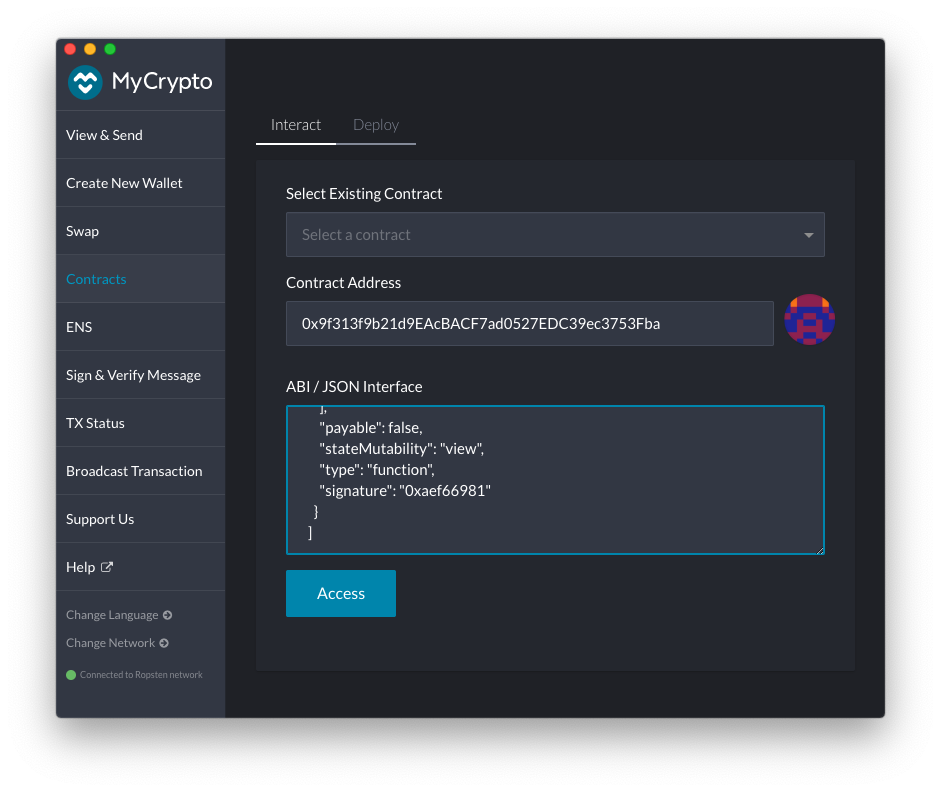
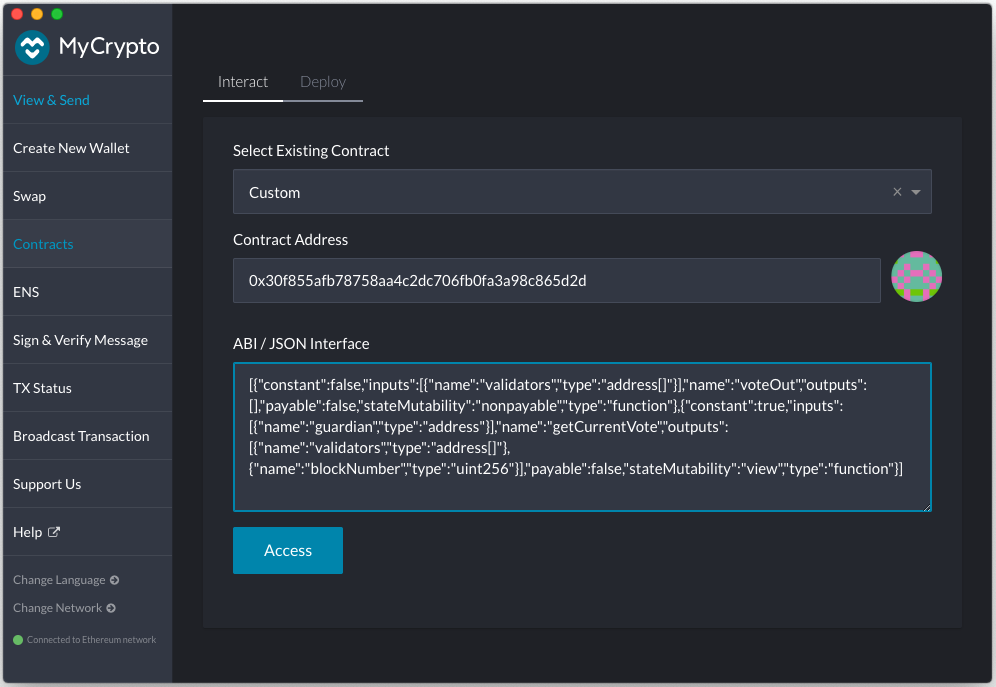
Ethereum mainnet + text fixes

diff --git a/voting/ethereum/instructions/vote_out.md b/voting/ethereum/instructions/vote_out.md
@@ -18,50 +18,71 @@ Any wallet software may be used, and the choice of MyCrypto here is for illustra
 
 ### Voting pre-requirements
  - MyCrypto desktop app (or another equivalent wallet software)
- - A wallet setup with your Guardians's Ethereum account keys with a positive Ether balance for gas payment
- - ABI and contract address available on Etherscan. For example, on Ropsten testnet the contract may be found [here][1] 
+ - A wallet setup with your Guardians's Ethereum account keys with a positive Ether balance for gas payment.
+ - Guardian registration of with your Ethereum account. See: [Guardian registration](./guardian_registration.md)
+ - ABI and contract address, available below in the Registration steps or on [Etherscan][1]
+
 
 ### Voting steps
 
 In order to vote follow these steps:
 
-1. **Verify you are on the correct network** ([Choosing the relevant Ethereum Network](./choosing_the_network.md))
-2. Navigate to *Contracts*, under the *Interact* tab.
+1. **Verify you are on the correct network - Ethereum Mainnet** (See [Choosing the relevant Ethereum Network](./choosing_the_network.md))
+1. Navigate to *Contracts*, under the *Interact* tab.
 ![](./voting_1.png)
-1. Enter the `OrbsVoting` contract address. For Ropsten testnet the address may be found [here][1]. Paste the address in the text box labeled *Contract Address*.
-1. Extract the Contract ABI from the Etherscan *code* [tab][1] and paste it in the test box labeled *ABI / JSON Interface*. 
-![](./voting_2.png)
+1. Select an existing custom contact and enter the `OrbsVoting` contract address. 
+   
+    **OrbsVoting Contract Address**: `0x30f855afb78758aa4c2dc706fb0fa3a98c865d2d`
+  
+    The contract address and ABI are also available on [Etherscan][1].
+
+    Paste the address in the **Contract Address** box.
+
+    ![](./voting_2a.png)
+
+1. Enter the `OrbsVoting` contract ABI for voting.
+   
+   **`OrbsVoting` contract ABI for Voting:**
+
+   [{"constant":false,"inputs":[{"name":"validators","type":"address[]"}],"name":"voteOut","outputs":[],"payable":false,"stateMutability":"nonpayable","type":"function"},{"constant":true,"inputs":[{"name":"guardian","type":"address"}],"name":"getCurrentVote","outputs":[{"name":"validators","type":"address[]"},{"name":"blockNumber","type":"uint256"}],"payable":false,"stateMutability":"view","type":"function"}]
+
+    Alternatively, the ABI may be extracted directly from [Etherscan][1], **Contract ABI** box.
+  
+    Paste the ABI in the **ABI / JSON Interface** box.
+
+    ![](../instructions/voting_2.png)
+
 1. Click *Access*.
-   * If the *Access* button appears disabled, make sure there are no trailing line feeds at the bottom of the *ABI / JSON Interface* text box.
+   * If the *Access* button appears disabled, make sure there are no empty lines at the bottom of the *ABI / JSON Interface* text box.
 1. Select `voteOut` in the drop down list *Read / Write Contract*
 ![](./voting_3.png)
 The function parameter for the `voteOut` call will appear in the form.
 1. Fill the parameter field labeled `nodes address[]`
-with the Ethereum addresses corresponding to any Validator you wish to vote out.
+with the Ethereum addresses of the Validators you wish to vote out.
 An empty list implies all validators are approved by the voting guardians.
     - The list will be represented as a JSON array. for example:
-    - `["0xd45083C7E21c9B346F2DfdB3d59e513C1FFC23d8", "0xA0bC632E9CE4485b5cF01e53A15B35672D237267"]`
-    - to represent an empty list pass `[]`
-    - If any of the addresses does not match a registered validator it will be ignored by Orbs when counting votes
-    - validators are indicated using their Ethereum accounts addresses as registered under the OrbsValidatorsRegistry contract.
+    - `"["0x1234567890123456789012345678901234567890", "0x0987654321098765432109876543210987654321"]"`
+    - to represent an empty list enter `"[]"`
+    - Addresses that do not match a registered Validator are ignored.
 ![](./voting_4.png)
 1. Choose one of the options under *How would you like to access your wallet?*
 and provide your wallet information/credentials.
-In this example we choose to provide a mnemonic to open our wallet:
-![](./unlock_mnemonic.png)
-Click *Choose Address*
-![](./voting_5.png)
+In this example we choose to work with a HW Ledger:
+![](../instructions/voting_5a.png)
+Proceed to *Choose Address*. 
 1. Select your Guardians's Ethereum address. 
-The address you choose should be your Guardian's identifying address as [registered under OrbsGuardians](./guardian_registration.md) contract.
+The address you choose should be your Guardian's address as registered in OrbsGuardians contract. See: [Guardian registration](./guardian_registration.md)
+![](../instructions/voting_5.png)
 Make sure the account has a positive Ether balance for transaction fees.
 <br> Then click *Unlock*. 
+
+1.  Verify *Automatically Calculate Gas Limit* is checked and adjust Gas Price to a
+reasonable value, for example according to https://ethgasstation.info/.
 ![](./voting_6.png)
-1. Verify *Automatically Calculate Gas Limit* is checked. 
-![](./voting_7.png)
-Don't forget to adjust Gas Price so the transaction is accepted in a reasonable time. Then Click *Write*, and then *Sign Transaction* 
+
+Click *Write*, then *Sign Transaction* 
 ![](./voting_8.png)
-Click *Send Transaction*
-![](./voting_9.png)
+
 Review, then click *Send*
 
 1. Once the transaction is sent, MyCrypto will provide a link to track the transaction status on Etherscan.
@@ -76,9 +97,11 @@ Make sure you see
 
 With sufficient block confirmations.
 
-[1]: https://ropsten.etherscan.io/address/0x9f313f9b21d9EAcBACF7ad0527EDC39ec3753Fba#code
+1. Review your voting by calling getCurrentVote() with your Guardian address.
+
+[1]: https://etherscan.io/address/0x30f855afb78758aa4c2dc706fb0fa3a98c865d2d#code
 
 ##### Notes
-* If a vote is made from a non-guardian address the vote will succeed but Orbs network will ignore it. Guardianship is verified on Orbs upon processing of voting results.
-* If a vote is made with a non-validator address in the nodes list the vote will succeed but Orbs betwork will ignore the vote. Validator registration is verified on Orbs upon processing of voting result. 
-* A vote may be modified at any time, where the last vote recorded before an election event is taken into consideration.
+* If a vote is made from an address not registered as a Guardian the transaction will succeed but the vote will be ignored by Orbs network. Registration is verified on Orbs upon processing of voting results.
+* A transaction that Votes out address of non-Validators will succeed but the vote will be ignored.
+* A vote may be modified at any time. The last vote recorded before an election event is taken into consideration for the election.
